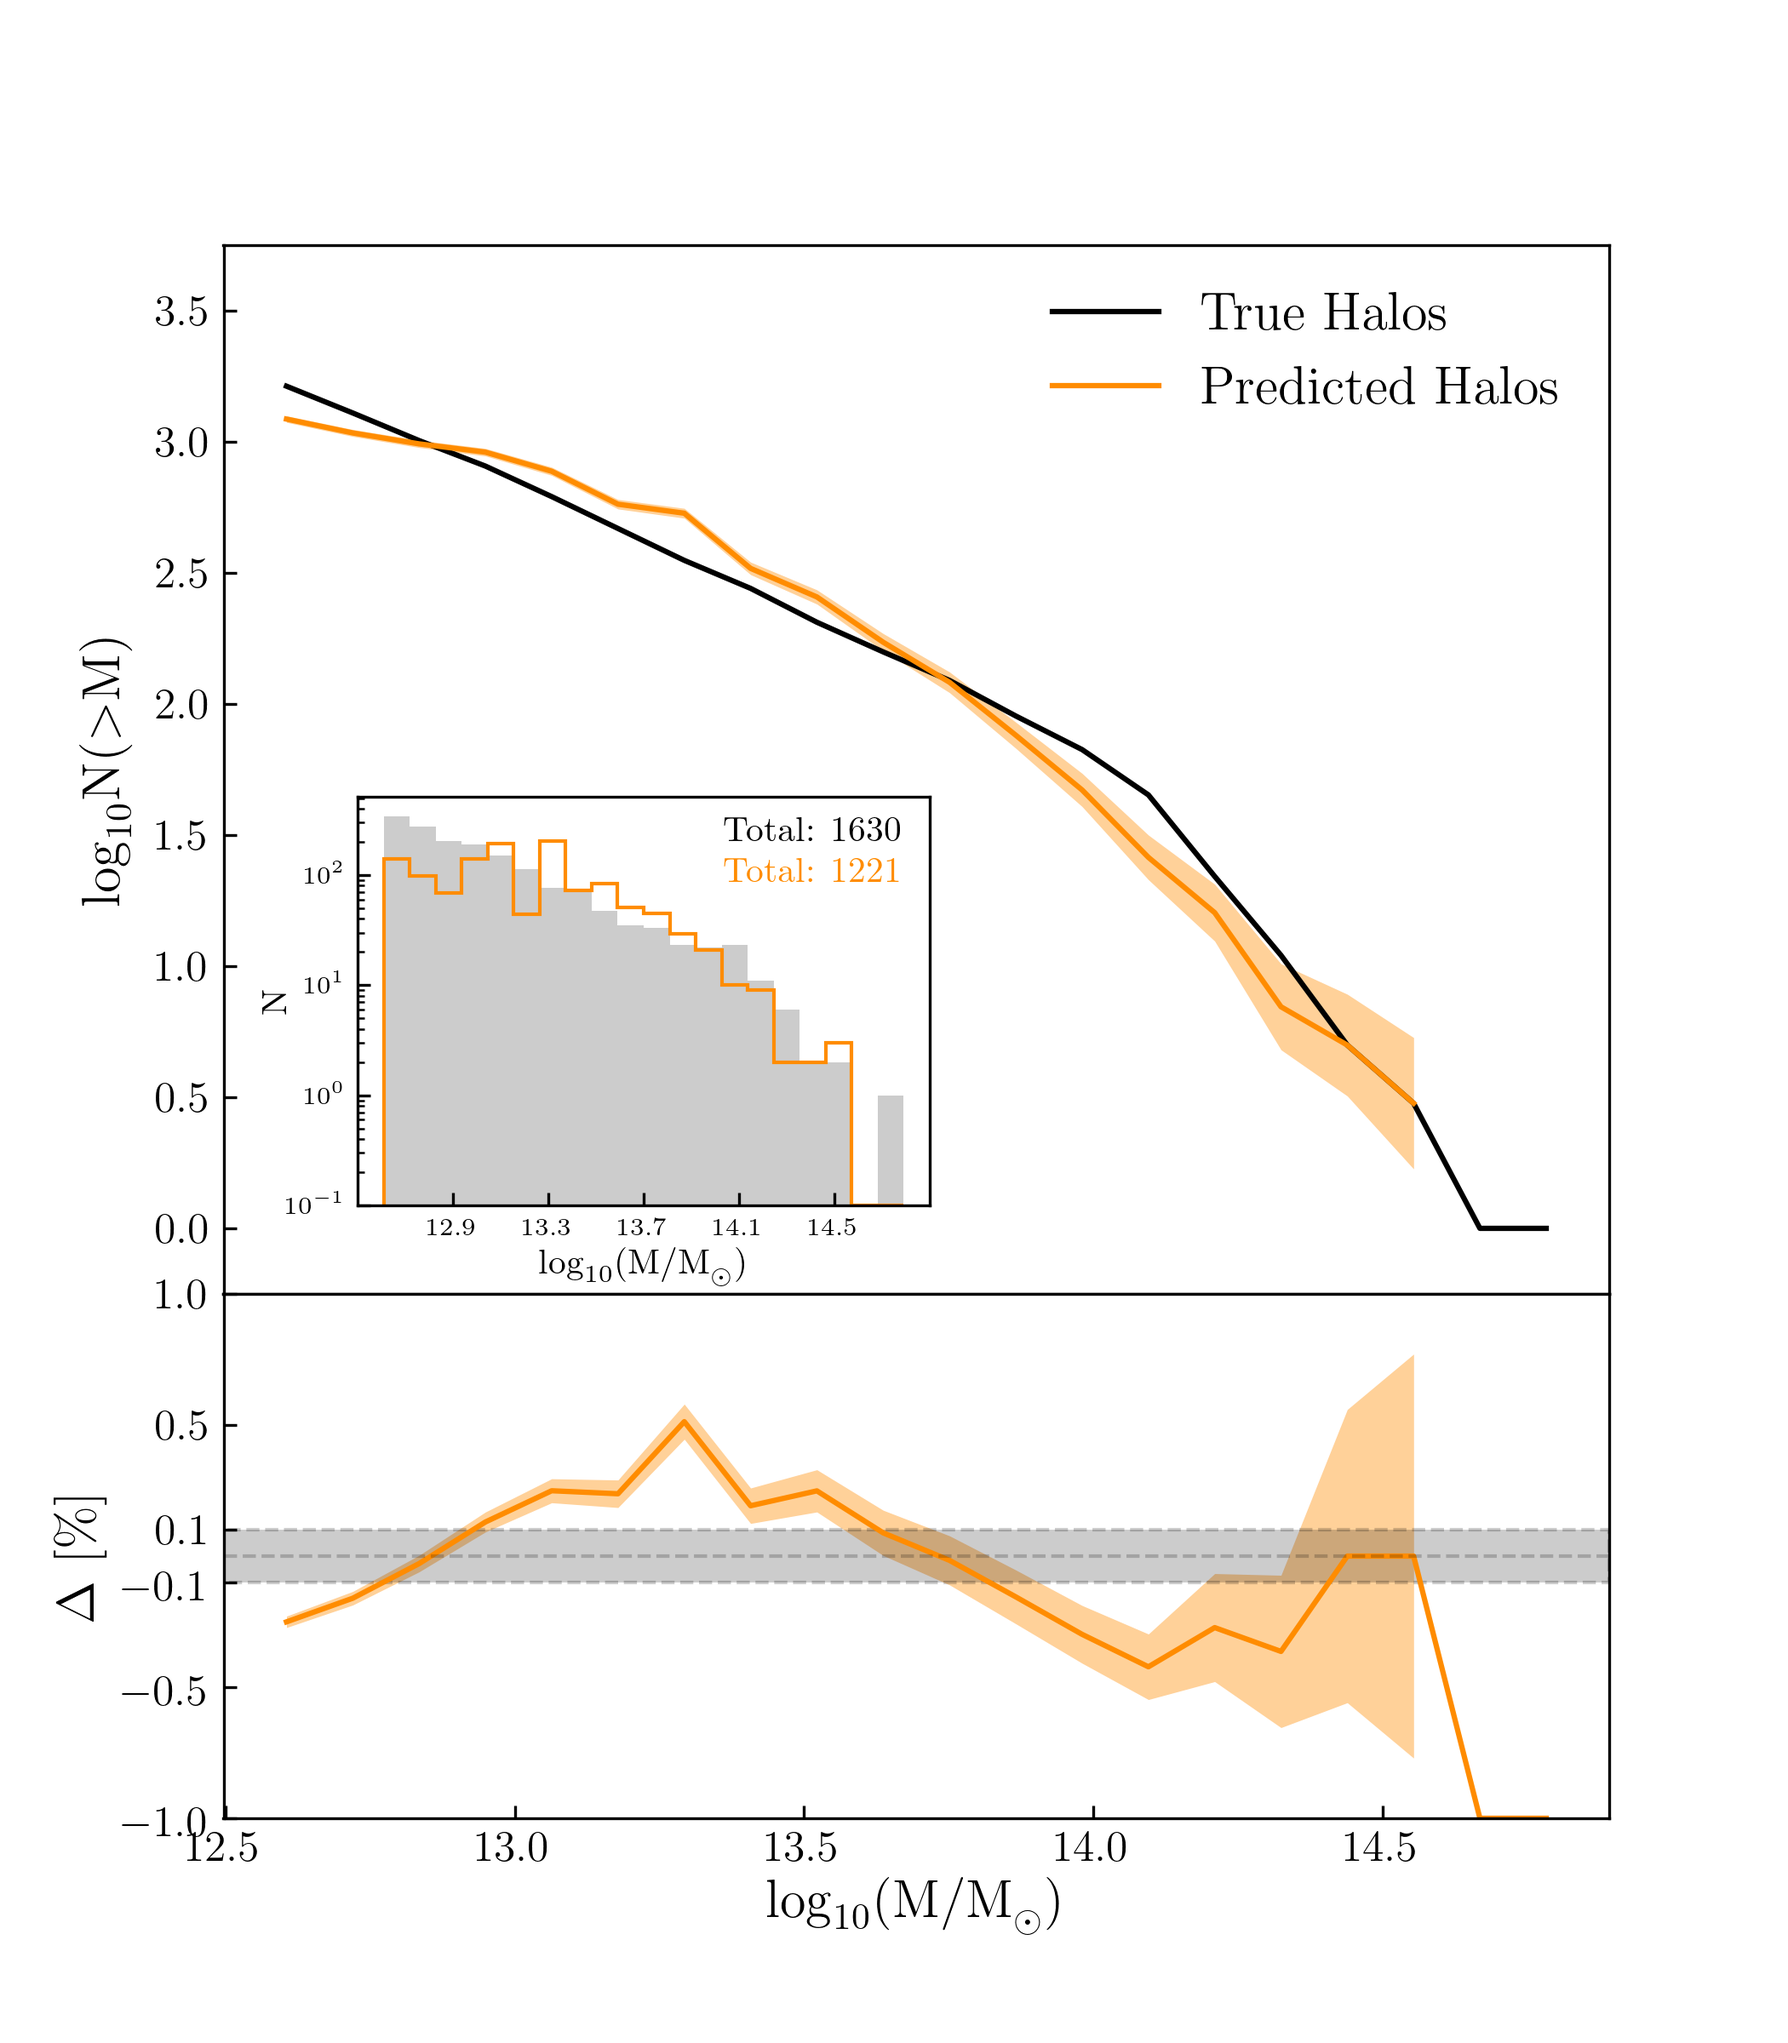
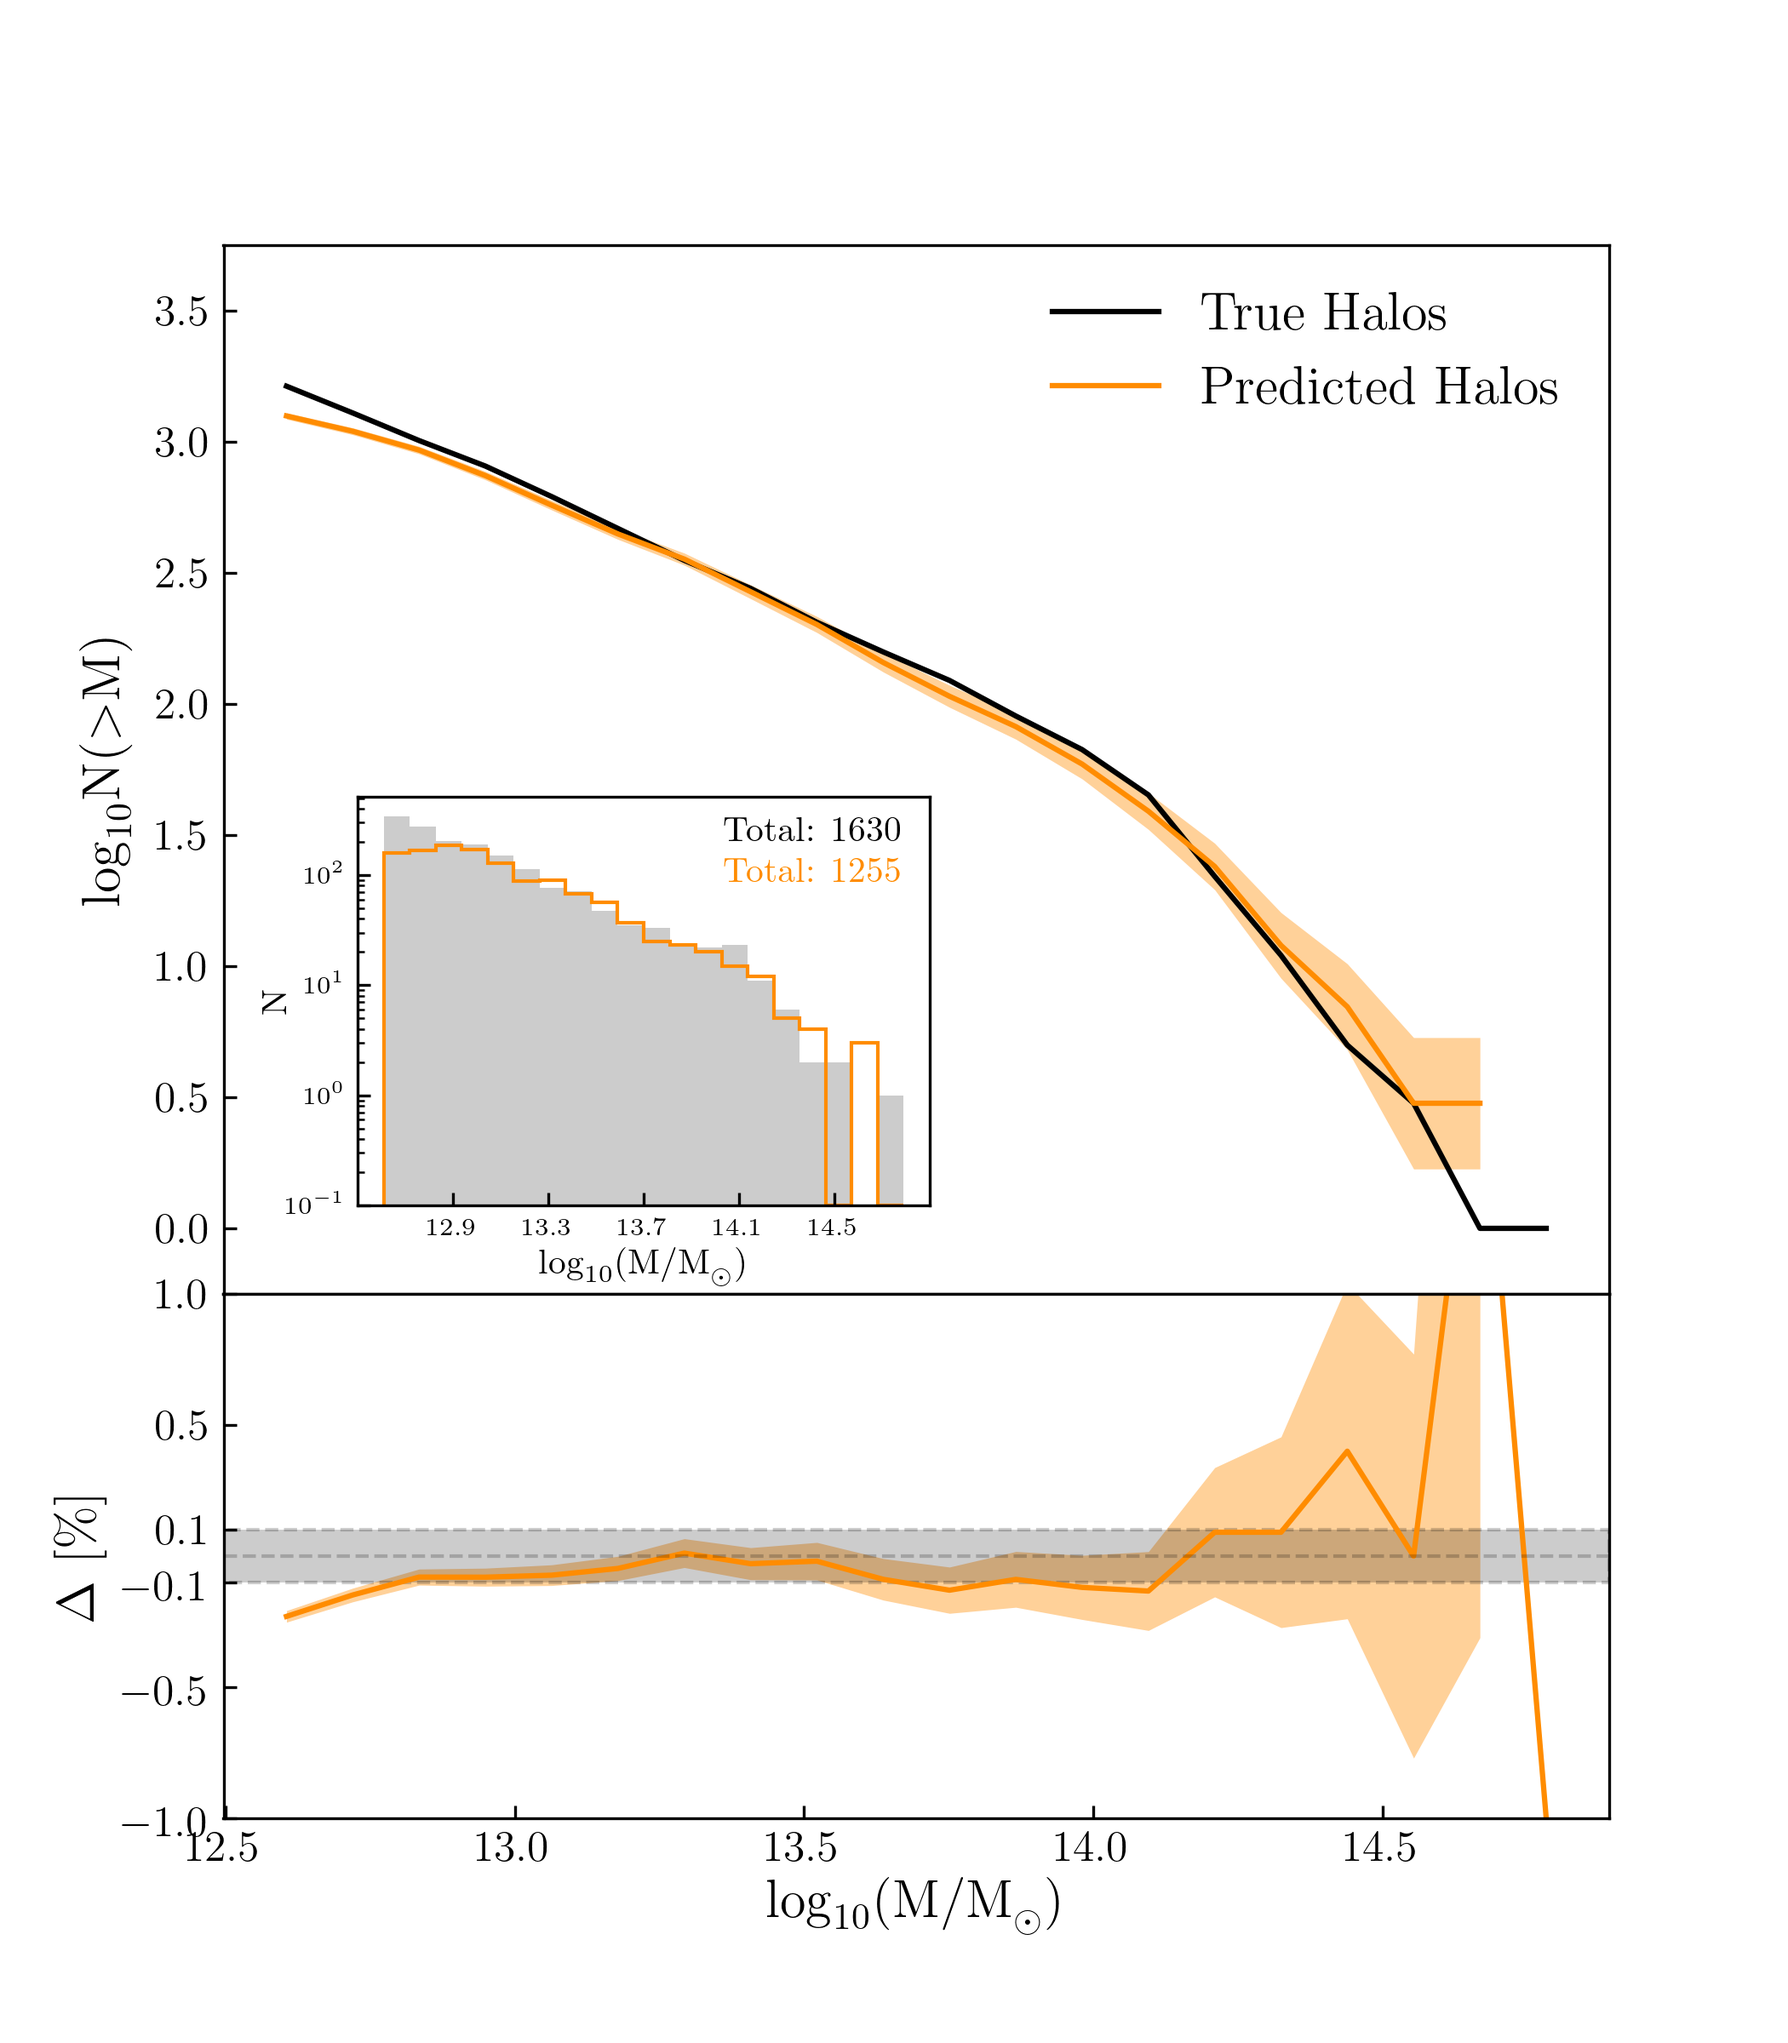
Started reworking the analysis section + changed the way of how the adaptive element works:   trace mean(dist)*mass vs mass

diff --git a/analysis/helpers/hmf_functions_revised.py b/analysis/helpers/hmf_functions_revised.py
@@ -8,41 +8,27 @@ def f(mean_distances, raw_masses):
     # Todo: MAKE sure that the thresholds DON'T go up all the way to 1
     # Todo: but only up to what is indicated in the plot (0.4?)
     N0 = 16 * 285
+
     def fit(m):
+        x0 = 3.75
+        x1 = 4.95
+        x2 = 5.65
 
-        P = [5.254736517726764, 7.112314761129568, 5.07115401589218, 3.417892033619879,
-             6.220494922942824, 2.7256100546997932, 4.80787659198392, 1.9859665557554766,
-             4.455193866685188, 3.9066683894320633, 4.748783114403779, 2.4089349140457097,
-             2.6767924581297087, 2.5035738817908717, 1.7326016355676177, 2.103432783736956,
-             5.384313221319651, 3.285739934193872, 2.2493481384640344, 0.0, 6.158211415609253,
-             2.0114952998027906, 2.239712033777085, 1.3441221034471849, 2.284868318070065, 0.0,
-             2.3567581453406525, 1.7783011898791676, 2.5751971352811536, 2.207983352604284][::-1] -0.3
+        y0 = 1.6
+        y1 = 3.4 #3.5
+        y2 = 5.6
 
-        M =     [3.65963101, 3.725155,  3.79067898, 3.85620296, 3.92172695, 3.98725093,
-                4.05277491, 4.1182989,  4.18382288, 4.24934687, 4.31487085, 4.38039483,
-                4.44591882, 4.5114428,  4.57696679, 4.64249077, 4.70801475, 4.77353874,
-                4.83906272, 4.9045867,  4.97011069, 5.03563467, 5.10115866, 5.16668264,
-                5.23220662, 5.29773061, 5.36325459, 5.42877858, 5.49430256, 5.55982654]
-                #5.62535053
-        index = np.argmin(abs(M-m))
-        return P[index]
-
-    """
-    def fit(m):
-        anchor0 = 3.75
-        anchor1 = 3.8
-        anchor2 = 4.35
-        if m < anchor1:
-            s = 2.0 / (anchor1 - anchor0)
-            q = anchor1 - s * anchor1
-            return s*m+q
-        elif m < anchor2:
-            s = 0.52 / (anchor2 - anchor1)
-            q = anchor2 - s * anchor2
-            return 3.24#s*m+q
+        if m < x1:
+            s = (y1 - y0) / (x1 - x0)
+            q = y1 - s * x1
+            return s * m + q
+        elif m < x2:
+            s = (y2 - y1) / (x2 - x1)
+            q = y2 - s * x2
+            return s * m + q
         else:
-            return anchor2
-    """
+            return 5.6
+
     x = np.linspace(0.5, 5.75, 1e3)
     y = np.asarray([fit(m) for m in x])
 
@@ -180,13 +166,13 @@ def retrieve_corrected_regions(distance, sim, preload=True):
 
             uncorrected_mass.append(combined_mask.sum())
             peak_value.append(np.mean(
-                                        uncorrected_mass[0]**(1./3.)/4.0 *
+                                        uncorrected_mass[-1]**(1./3.)/4.0 *
                                         distance[region][combined_mask]))
         peak_value = np.asarray(peak_value)
         peak_value[np.isnan(peak_value)] = 0.0
 
         index       = f(peak_value, uncorrected_mass)
-        threshold = thresholds[index]
+        threshold =   thresholds[index]
         adjusted_mask   = distance[region] >= threshold
 
         corrected_regions[region] += id * np.logical_and(adjusted_mask, mask)
@@ -215,7 +201,7 @@ def find_peak_to_thresh_relation(distance, sim, homedir, preload=True):
 
     # step 2: for each region collect the masses varying with threshold
     filtered_regions    = nd.find_objects(labels_wsF)
-    thresholds          = np.linspace(0, 1, 100)
+    thresholds          = np.linspace(0, 1, 50)
     peak_vals           = []
     masses              = []
 
@@ -235,11 +221,10 @@ def find_peak_to_thresh_relation(distance, sim, homedir, preload=True):
 
             object_mass.append(combined_mask.sum())
             object_quan.append(np.mean(
-                                object_mass[0]**(1./3.)/4.0 *
+                                object_mass[-1]**(1./3.)/4.0 *
                                 distance[region][combined_mask]))
 
-        peak_vals.append( #-1 * np.mean( np.gradient(object_mass) )
-                           object_quan)
+        peak_vals.append( object_quan )
         #peak_vals.append(object_mass[0]
         #                #/ np.max(distance[region][mask])
         #                * np.ones_like(thresholds))

diff --git a/analysis/hmfT/new_approach.py b/analysis/hmfT/new_approach.py
@@ -64,12 +64,11 @@ true_counts, bin_edges_Y = plt.hist(halo_sizes, bins=bins_hmf)[0:2]
 hist, bin_edges_X, bin_edges_Y, binnumbers = \
     scipy.stats.binned_statistic_2d(x=X, y=Y, values=None, statistic='count', bins=[bin_edges_X, bin_edges_Y], expand_binnumbers=True)
 
-print(np.asarray(bin_edges_Y)*1.0)
-raise SystemExit
 
 # prepare for for loop, reverse order...
 # smoothing here (before the for loop below) is totally forbidden, since it would change the values inside
 hist        = np.rot90(hist)
+hist = nd.gaussian_filter(hist, sigma=1)
 print(np.asarray([max(x) for x in hist]).sum(), true_counts.sum())   # all good!
 
 
@@ -103,14 +102,14 @@ print(Pv, markers)
 
 
 
-"""
+
 plt.figure(figsize=(6, 2.75))
 for pv, mv, mar in zip(Pv, Mv, markers):
     if mar=='d':
         plt.scatter(mv, pv, marker=mar, color='purple', edgecolors='k')
     else:
         plt.scatter(mv, pv, marker=mar, color='cornflowerblue', edgecolors='k')
-"""
+
 
 
 
@@ -137,25 +136,25 @@ for points, mar in zip(index_pairs_of_dots, markers):
 
 def fit_M(x):
     m = []
-    anchor0 = 3.75
-    anchor1 = 3.90
-    anchor2 = 4.1
+    x0 = 3.75
+    x1 = 4.95
+    x2 = 5.65
+
+    y0 = 2.1
+    y1 = 3.7
+    y2 = 5.6
+
     for p in x:
-        if p < anchor1:
-            s = 2.16 / (anchor1 - anchor0)
-            q = anchor1 - s * anchor1
+        if p < x1:
+            s = (y1-y0) / (x1 - x0)
+            q = y1 - s * x1
             m.append(s*p+q)
-        elif p < anchor2:
-            s = 0.52 / (anchor2 - anchor1)
-            q = anchor2 - s * anchor2
+        elif p < x2:
+            s = (y2-y1) / (x2 - x1)
+            q = y2 - s * x2
             m.append(s*p+q)
-        elif p >= anchor2:
-            #m = (0.075-0.040) / (anchor2 - anchor1)
-            #q = 0.040 - m*anchor1
-            #cf.append(m * p + q)
-            m.append(4.1)
-        #elif anchor2 >= 0.3:
-        #    cf.append(0.075)
+        else:
+            m.append(5.6)
     return np.asarray(m)
 
 # transform the values from mass fit to the imshow indices [0, 1, ...], really painful.

diff --git a/analysis/hmfT/find_peak_thresh_relation.py b/analysis/hmfT/find_peak_thresh_relation.py
@@ -10,14 +10,14 @@ from analysis.helpers.hmf_functions_revised import find_peak_to_thresh_relation
 
 
 sim = 'T'
-"""
+
 homedir = os.path.dirname(os.getcwd()) + '/'
 predicted_distances = np.load(homedir + 'boxes'+sim+'/prediction'+sim+'.npy')
 raw_masses, peak_vals, contour_fs = find_peak_to_thresh_relation(distance=predicted_distances, sim=sim, homedir=homedir)
 np.save('raw_masses.npy', raw_masses)
 np.save('peak_vals.npy', peak_vals)
 np.save('contour_fs.npy', contour_fs)
-"""
+
 raw_masses = np.load('raw_masses.npy')
 peak_vals = np.load('peak_vals.npy')
 contour_fs = np.load('contour_fs.npy')

diff --git a/analysis/get_sizes.py b/analysis/get_sizes.py
@@ -13,5 +13,5 @@ def get_sizes(sim):
     np.save('hmf' + sim + '/src/peak_values_predicted' + sim + '.npy', peak_values)
     np.save('hmf' + sim + '/src/corrected_sizes_predicted' + sim + '.npy', corrected_sizes)
 
-#get_sizes(sim='T')
+get_sizes(sim='T')
 get_sizes(sim='A')
